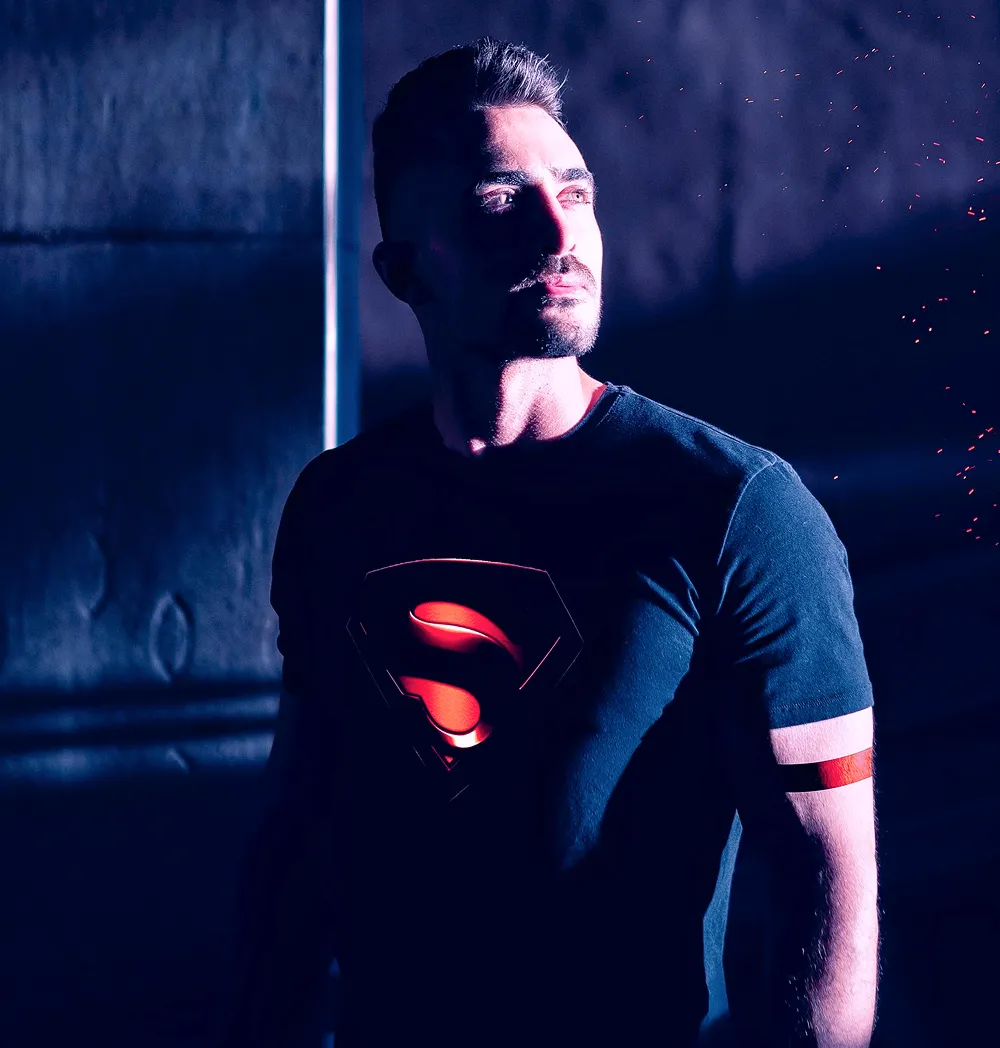
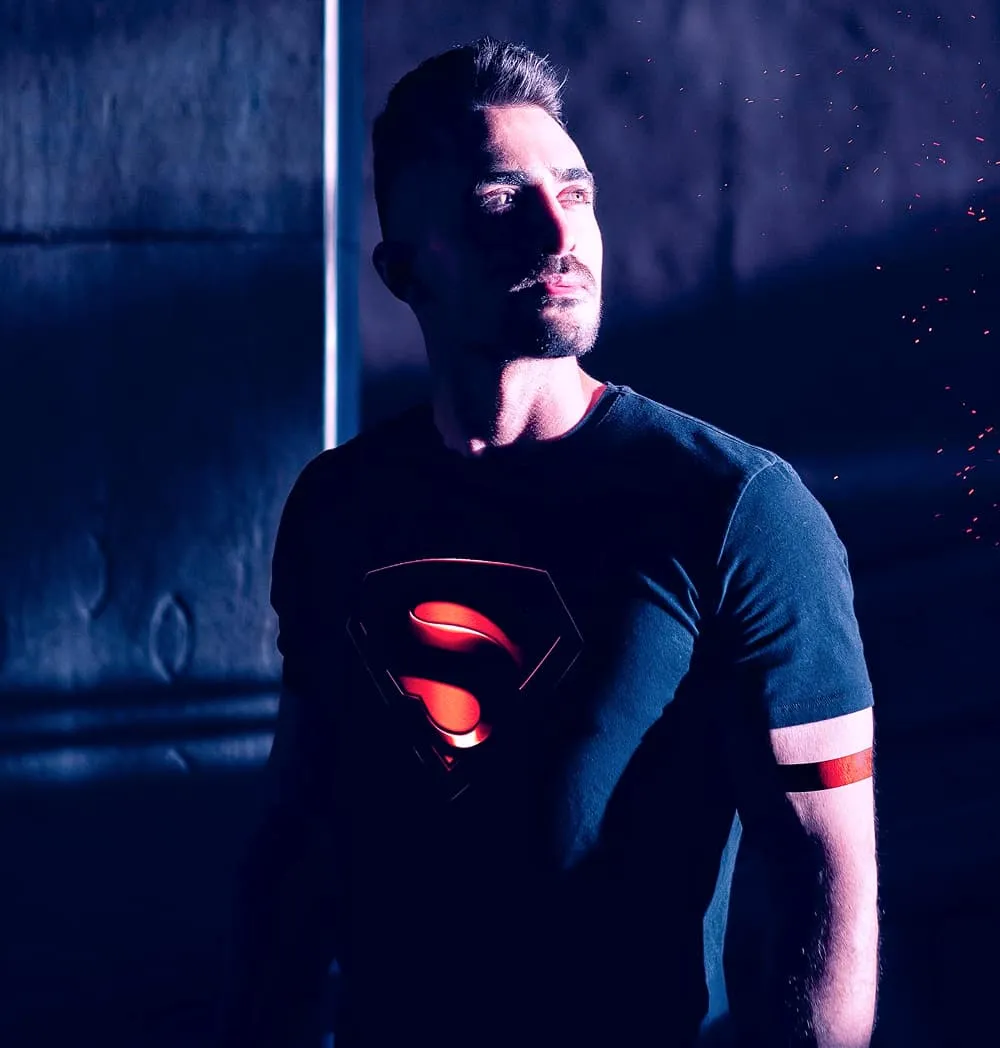
оптимизирует графику

diff --git a/source/index.html b/source/index.html
@@ -19,11 +19,11 @@
     <div class="page__header-hero" data-test="hero">
       <header class="header">
         <div class="header__container page__container">
-          <img class="header__logo" src="#" alt="Логотип фитнес клуба." width="100" height="20">
+          <img class="header__logo" src="img/content/logo.svg" alt="Логотип фитнес клуба." width="100" height="20">
           <a class="header__phone" href="tel:88005555555">8 800 555-55-55</a>
         </div>
       </header>
-      <section class="hero" data-test="hero">
+      <section class="hero">
         <div class="hero__content page__container">
           <p class="hero__city">Омск</p>
           <ul class="hero__features">
@@ -36,14 +36,14 @@
           <div class="hero__img-container">
             <picture>
               <source type="image/webp" media="(min-width: 1366px)"
-                srcset="img/hero-trainer-desktop@1x.webp 1x, img/hero-trainer-desktop@2x.webp 2x" width="500"
+                srcset="img/content/hero-trainer-desktop@1x.webp 1x, img/content/hero-trainer-desktop@2x.webp 2x" width="500"
                 height="524">
-              <source type="image/webp" srcset="img/hero-trainer-tablet@1x.webp 1x, img/hero-trainer-tablet@2x.webp 2x"
+              <source type="image/webp" srcset="img/content/hero-trainer-tablet@1x.webp 1x, img/content/hero-trainer-tablet@2x.webp 2x"
                 width="324" height="390">
               <source media="(min-width: 1366px)" type="image/jpg"
-                srcset="img/hero-trainer-desktop@1x.jpg 1x, img/hero-trainer-desktop@2x.jpg 2x" width="500"
+                srcset="img/content/hero-trainer-desktop@1x.jpg 1x, img/content/hero-trainer-desktop@2x.jpg 2x" width="500"
                 height="524">
-              <img class="hero__img" src="img/hero-trainer-tablet@1x.jpg" srcset="img/hero-trainer-tablet@2x.jpg 2x"
+              <img class="hero__img" src="img/content/hero-trainer-tablet@1x.jpg" srcset="img/content/hero-trainer-tablet@2x.jpg 2x"
                 width="324" height="390" alt="Тренер.">
             </picture>
           </div>

diff --git a/source/sass/hero.scss b/source/sass/hero.scss
@@ -1,23 +1,23 @@
 .hero__container {
   display: grid;
-  grid-template-columns: 113px 156px;
-  gap: 14px 21px;
   padding-top: 44px;
   padding-bottom: 32px;
+  gap: 14px 21px;
+  grid-template-columns: 113px 156px;
 
   @media (min-width: $tablet-width) {
     position: relative;
-    grid-template-columns: 113px 185px;
-    gap: 10px 26px;
     padding-top: 31px;
     padding-right: 399px;
     padding-bottom: 131px;
+    gap: 10px 26px;
+    grid-template-columns: 113px 185px;
   }
 
   @media (min-width: $desktop-width) {
-    grid-template-columns: 115px 270px;
-    gap: 40px 0;
     padding: 52px 175px 172px 250px;
+    gap: 40px 0;
+    grid-template-columns: 115px 270px;
   }
 }
 
@@ -119,5 +119,13 @@
 
   @media (min-width: $desktop-width) {
     right: 175px;
+  }
+}
+
+.hero__img-container img {
+  max-height: 450px;
+
+  @media (min-width: $desktop-width) {
+    max-height: 600px;
   }
 }

diff --git a/source/sass/page.scss b/source/sass/page.scss
@@ -44,3 +44,15 @@
   background-color: $secondary-white;
   background-image: $gradient-hero;
 }
+
+.page__form-address-container {
+  @media (min-width: $desktop-width) {
+    display: grid;
+
+    grid-template-columns: 1fr 1fr;
+  }
+}
+
+.page__page-footer {
+  margin-top: auto;
+}
